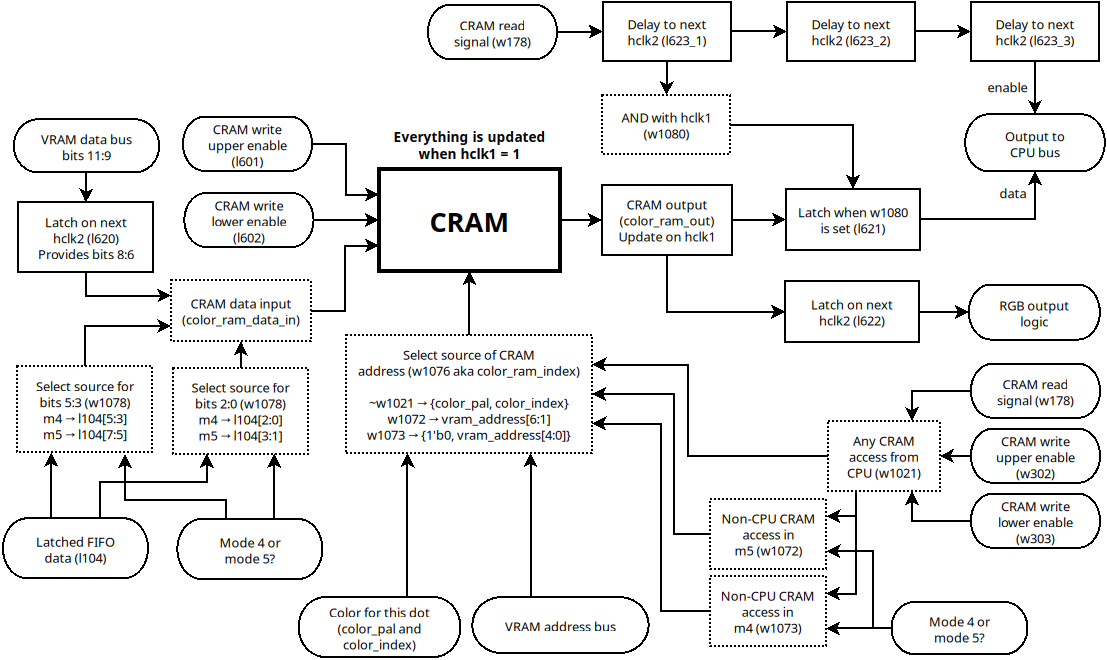
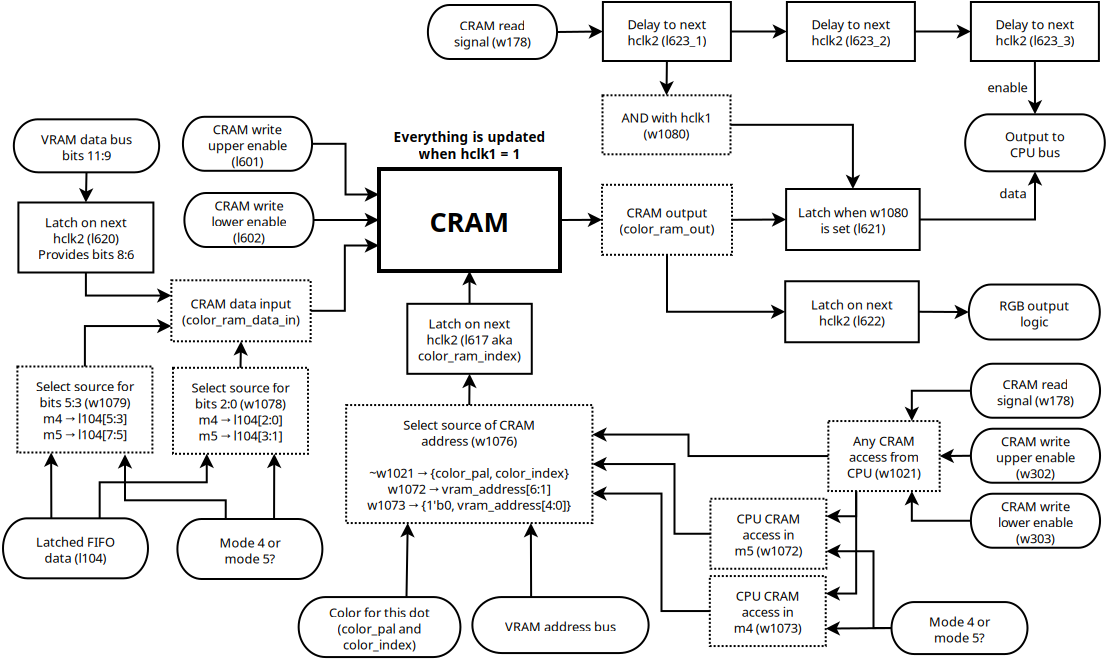
Corrections regarding CRAM

diff --git a/tidbits.md b/tidbits.md
@@ -7,6 +7,8 @@
 ## VRAM
 
 - There's no centralized way to access the VRAM bus, everything that needs it puts their address directly on it and the VDP relies on its timing signals to coordinate who has access to the bus.
+- When writing to VRAM, the data is output directly from the FIFO latches; however when writing to CRAM or VSRAM the data goes through a latch. It's even more confusing, in that the low byte goes through a shared latch (`l104`), while the required bits from the high byte have separate latches for each (`l620` for CRAM, `l182` for VSRAM).
+	+ One side effect of this is that DMA copy and fill don't work with CRAM and VSRAM, since those DMA modes by-pass the FIFO but CRAM/VSRAM expect their data to come directly from the FIFO.
 - 16-bit data seems to be stored little endian internally. VDP has to fake having a big endian interface in mode 5 to prevent confusion when using the 68000.
 - With an 8-bit bus (mode 4 and mode 5 64KB), `/SE0` is always asserted. With a 16-bit bus (mode 5 128KB), it constantly alternates between `/SE0` and `/SE1`. This lets the VDP share the same 8-bit port to read data from both VRAM halves.
     + (`/SE0` and `/SE1` are the two VRAM selects, for context)
